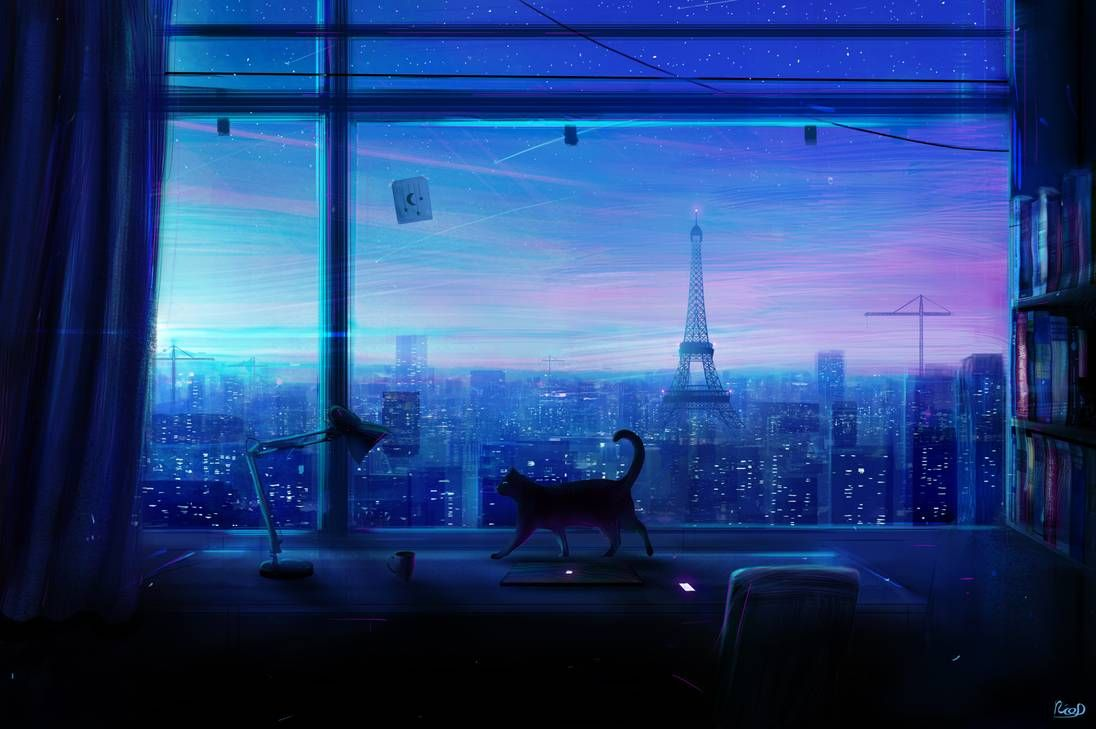
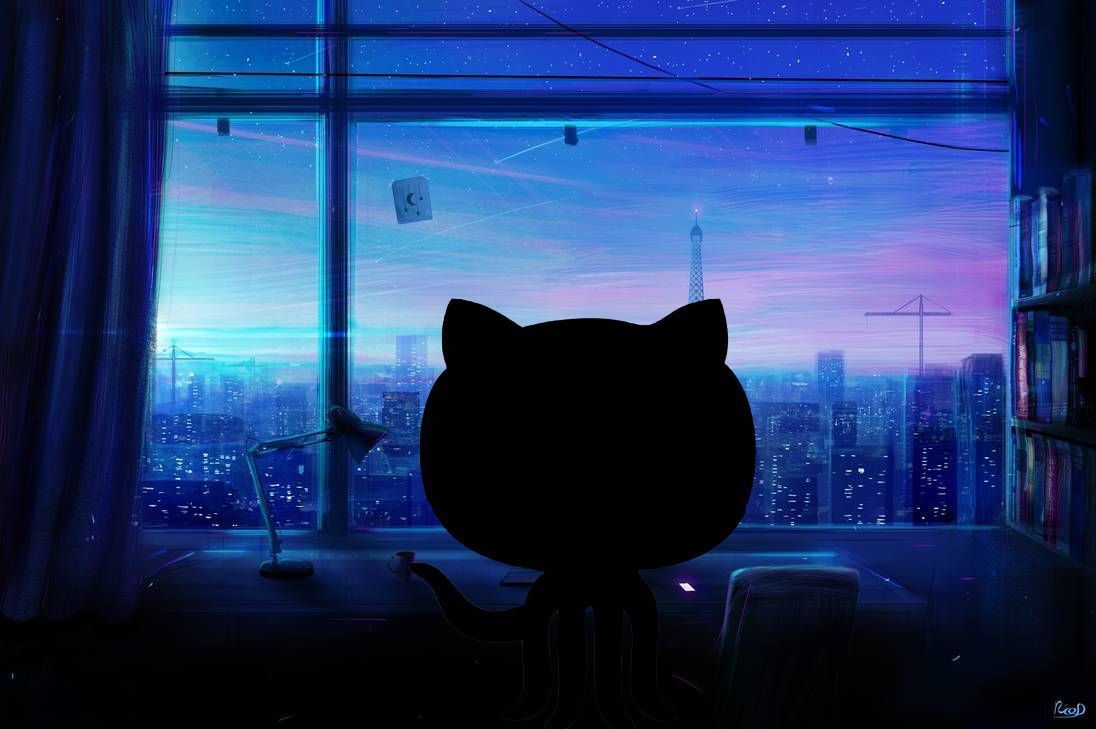
styled home page

Changed region(s): [[0.3723, 0.3923, 0.7135, 0.845], [0.3723, 0.7545, 0.4343, 0.845]]

diff --git a/src/components/Home.js b/src/components/Home.js
@@ -1,5 +1,5 @@
 import react from "react";
-import image from "../cat.jpeg"
+import image from "../octocatzz.jpg"
 
 export default function Home() {
     return (
